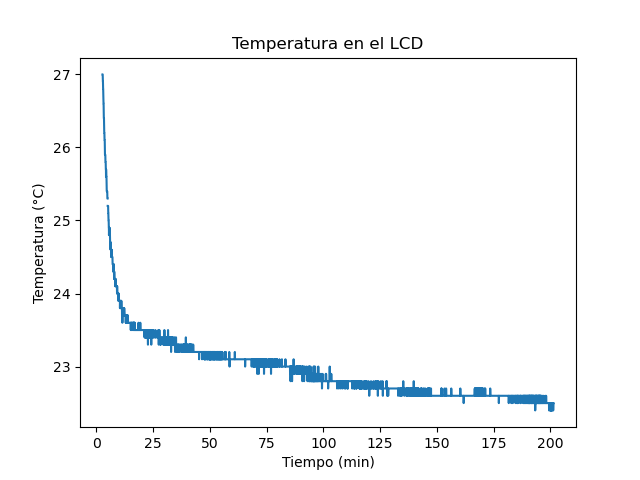
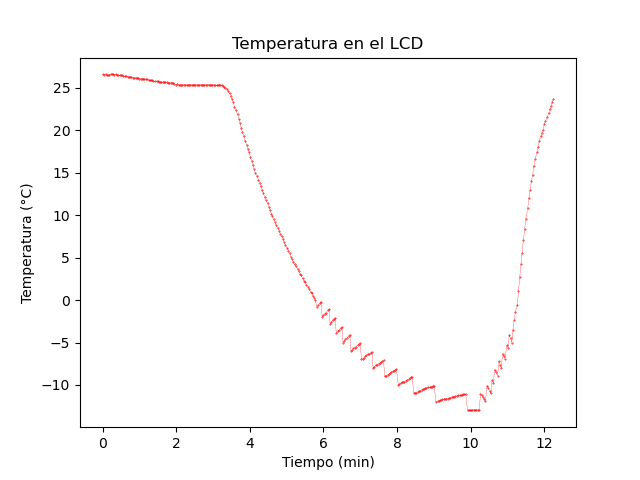
18/06/2022

diff --git a/otros/temp_lcd_sd_t/temp.py b/otros/temp_lcd_sd_t/temp.py
@@ -6,7 +6,7 @@ import os
 import time
 import datetime
 import matplotlib.dates as mdates
-#import matplotlib.ticker as ticker
+import matplotlib.ticker as ticker
 #import matplotlib.animation as animation
 #import matplotlib.dates as mdates
 #import matplotlib.pyplot as plt
@@ -25,17 +25,22 @@ df['date'] = pd.to_datetime(df['date'], format="'%H:%M:%S'")
 df['date'] = df['date'].dt.strftime('%H:%M:%S')
 #convertimos lo anterior a minutos
 df['date'] = df['date'].str.split(':').apply(lambda x: int(x[0])*60 + int(x[1]) + int(x[2])/60)
+#restemos el tiempo inicial a todo el vector de tiempo
+df['date'] = df['date'] - df['date'][1]
 #convertimos los datos de temperatura a float
 df['temp'] = df['temp'].astype(float)
 print(df)
 #graficamos
-plt.plot(df['date'], df['temp'])
+plt.plot(df['date'], df['temp'], color='red', linewidth=0.2,marker='o',markersize=0.4)
 plt.xlabel('Tiempo (min)')
 plt.ylabel('Temperatura (°C)')
 plt.title('Temperatura en el LCD')
+#guardamos la gráfica en el directorio de trabajo
 plt.savefig('temp.png')
 plt.show()
-#guardamos la gráfica en formato png
+
+
+
 
 
 
